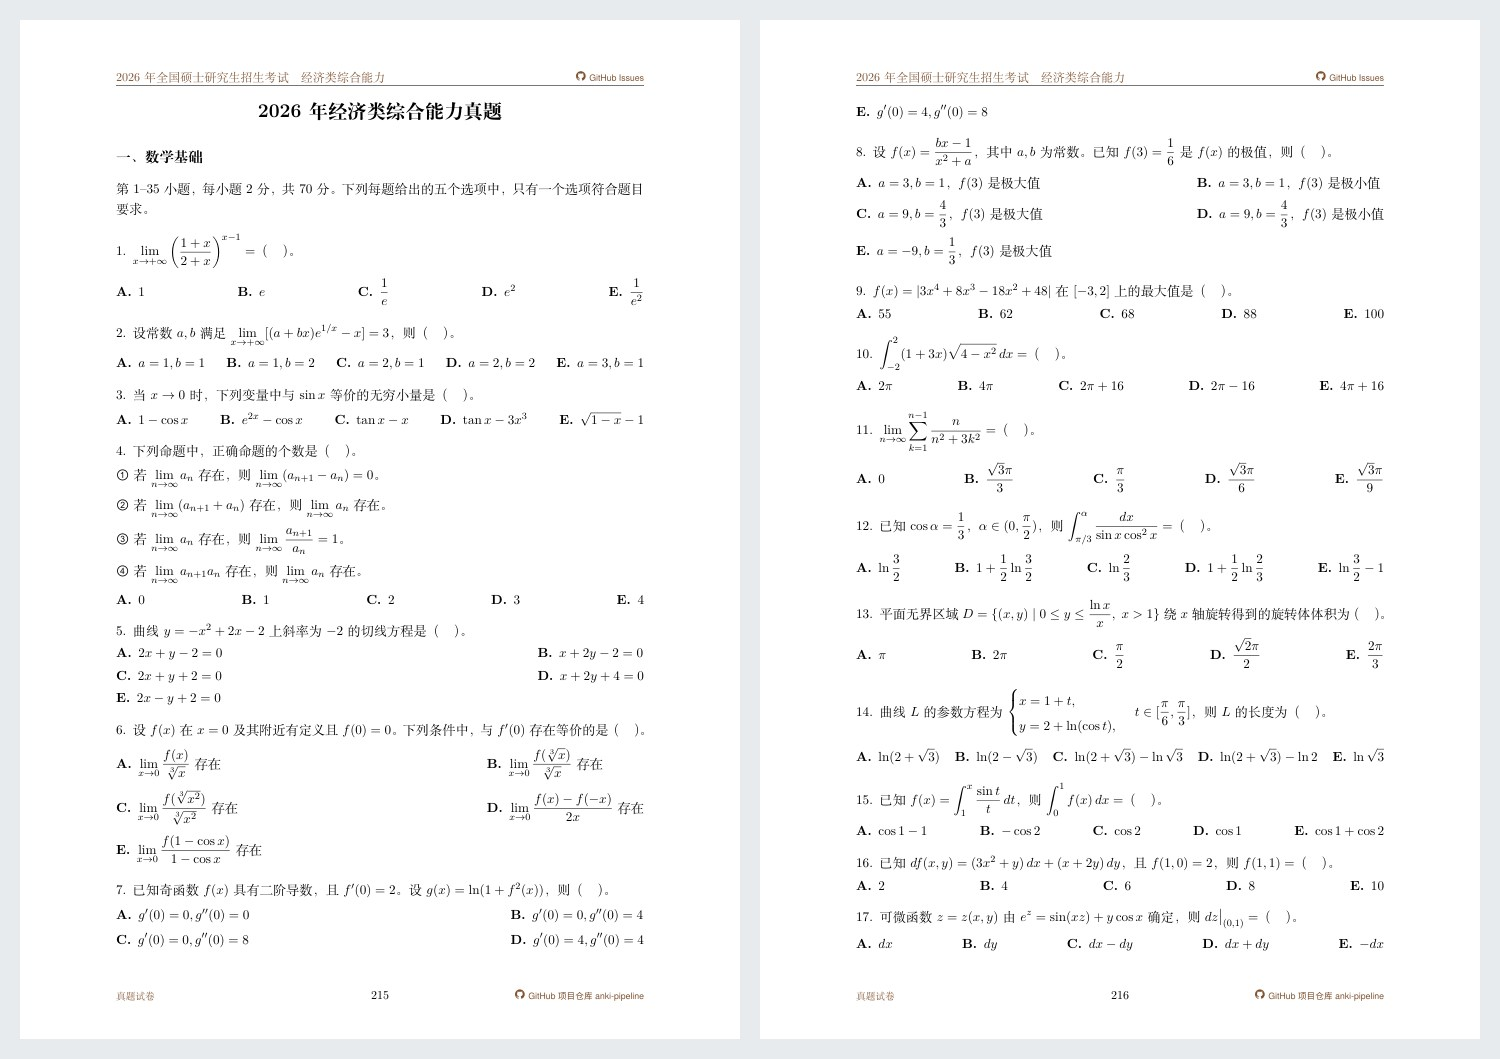
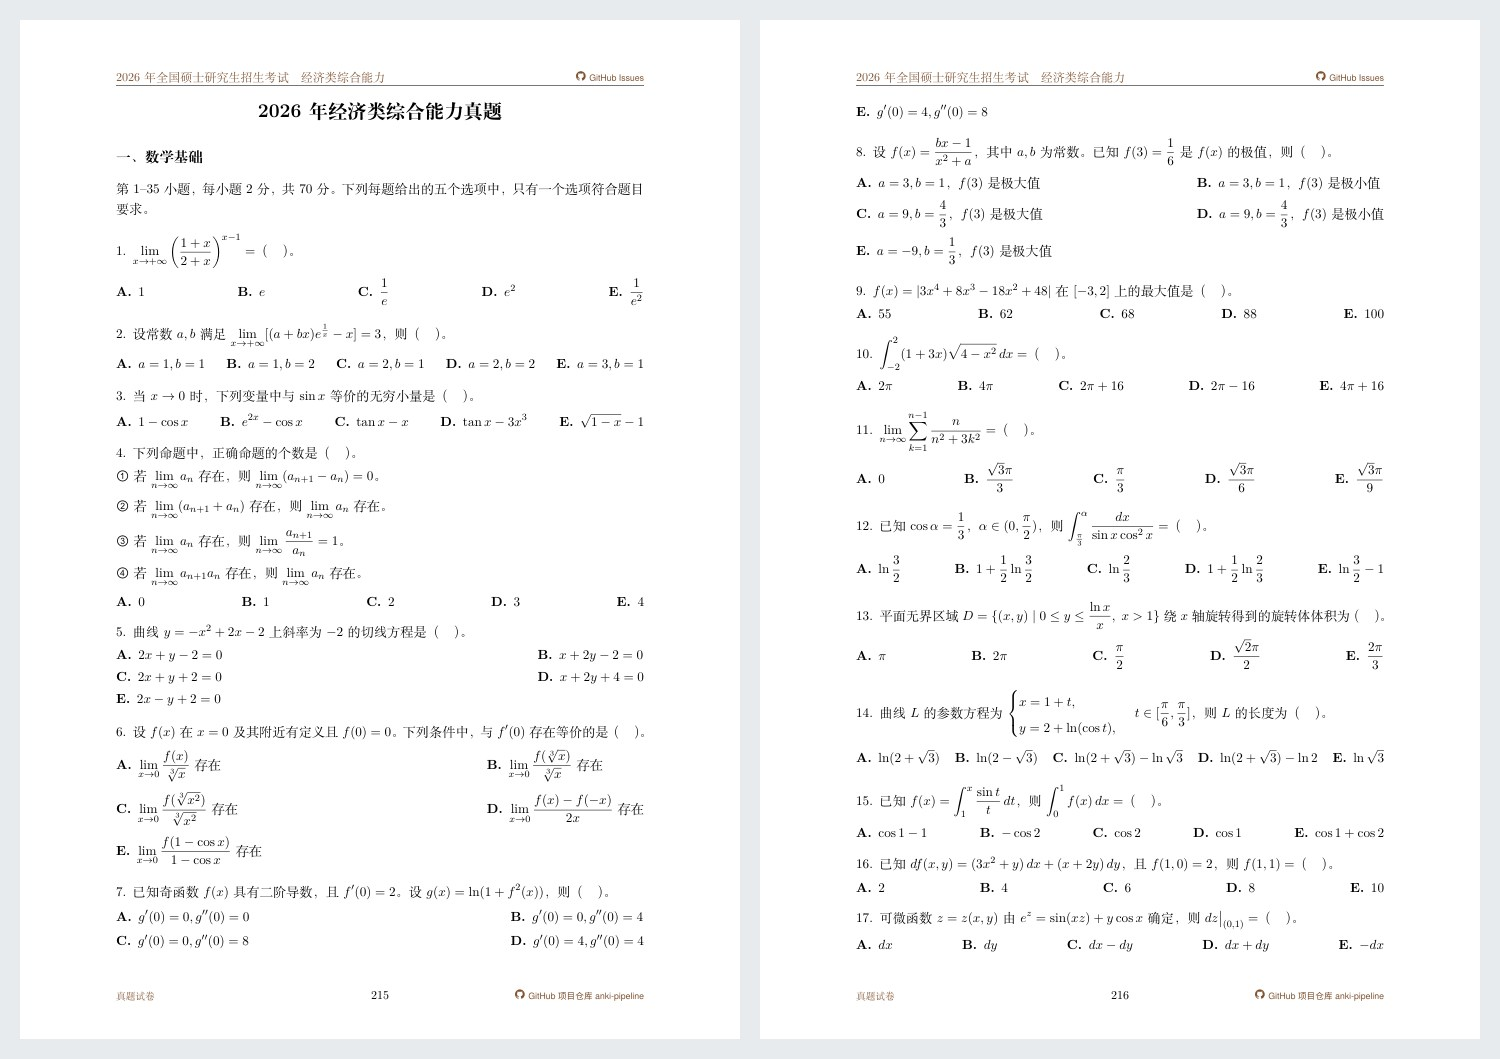
Refresh 199 and 396 previews after stacking fractions

diff --git a/README.md b/README.md
@@ -37,7 +37,7 @@ Anki Pipeline 整理考研数学历年真题、考研政治历年真题、考研
 | 考研数学历年真题（数学一／二／三：1987—2026） | [数一](https://github.com/CHNragdoll/anki-pipeline/releases/download/math-exams/Math1-Past-Exams-20261108.apkg) · [数二](https://github.com/CHNragdoll/anki-pipeline/releases/download/math-exams/Math2-Past-Exams-20261108.apkg) · [数三](https://github.com/CHNragdoll/anki-pipeline/releases/download/math-exams/Math3-Past-Exams-20261108.apkg) | 1,104 / 873 / 1,093 张 | 附 2027 大纲；[12 版 PDF](#math-downloads) | 63.4 / 52.0 / 61.2 MB | [数学固定发行页](https://github.com/CHNragdoll/anki-pipeline/releases/tag/math-exams) · [核验记录](docs/RELEASE_MATH_20261108.md) | [![数学累计下载](https://raw.githubusercontent.com/CHNragdoll/anki-pipeline/project-metrics/math-exams-downloads.svg)](https://github.com/CHNragdoll/anki-pipeline/releases/tag/math-exams) |
 | 考研408历年真题（2009—2026） | [408 完整版 · 847 张卡](https://github.com/CHNragdoll/anki-pipeline/releases/download/cs408-exams/CS408-Past-Exams-Full-Guide-20261109.apkg) | 847 / 37 | 846 道试题及来源答案 | 63.4 MB | [408 固定发行页](https://github.com/CHNragdoll/anki-pipeline/releases/tag/cs408-exams) · [发布核验](docs/RELEASE_CS408.md) | [![本发行页累计下载](https://raw.githubusercontent.com/CHNragdoll/anki-pipeline/project-metrics/cs408-exams-downloads.svg)](https://github.com/CHNragdoll/anki-pipeline/releases/tag/cs408-exams) |
 | 考研政治历年真题（2003—2026） | [政治完整包 · 909 张卡](https://github.com/CHNragdoll/anki-pipeline/releases/download/politics-exams/Politics-Past-Exams-2003-2026.apkg) | 909 / 76 | 908 道试题及来源答案 | 3.3 MB | [政治固定发行页](https://github.com/CHNragdoll/anki-pipeline/releases/tag/politics-exams) · [上一版核验](docs/RELEASE_POLITICS.md) | [![本发行页累计下载](https://raw.githubusercontent.com/CHNragdoll/anki-pipeline/project-metrics/politics-exams-downloads.svg)](https://github.com/CHNragdoll/anki-pipeline/releases/tag/politics-exams) |
-| 考研管综历年真题（2010—2026） | [管综 Anki · 970 张](https://github.com/CHNragdoll/anki-pipeline/releases/download/management199-exams/Management199-Past-Exams-20261113.apkg) | 970 / 69 | 969 道试题及解析 | 33.2 MB | [管综固定发行页](https://github.com/CHNragdoll/anki-pipeline/releases/tag/management199-exams) | [![Downloads](https://raw.githubusercontent.com/CHNragdoll/anki-pipeline/project-metrics/management199-exams-downloads.svg)](https://github.com/CHNragdoll/anki-pipeline/releases/tag/management199-exams) |
+| 考研管综历年真题（2010—2026） | [管综 Anki · 970 张](https://github.com/CHNragdoll/anki-pipeline/releases/download/management199-exams/Management199-Past-Exams-20261113.apkg) | 970 / 69 | 969 道试题及解析 | 33.1 MB | [管综固定发行页](https://github.com/CHNragdoll/anki-pipeline/releases/tag/management199-exams) | [![Downloads](https://raw.githubusercontent.com/CHNragdoll/anki-pipeline/project-metrics/management199-exams-downloads.svg)](https://github.com/CHNragdoll/anki-pipeline/releases/tag/management199-exams) |
 | 考研经综历年真题（2011—2026） | [经综 Anki · 759 张](https://github.com/CHNragdoll/anki-pipeline/releases/download/economics396-exams/Economics396-Past-Exams-20261113.apkg) | 759 / 49 | 758 道试题及解析 | 21.6 MB | [经综固定发行页](https://github.com/CHNragdoll/anki-pipeline/releases/tag/economics396-exams) | [![Downloads](https://raw.githubusercontent.com/CHNragdoll/anki-pipeline/project-metrics/economics396-exams-downloads.svg)](https://github.com/CHNragdoll/anki-pipeline/releases/tag/economics396-exams) |
 | 2027考研英语红宝书（必考词+基础词+超纲词）真题例句版 | [2027 完整版 · 统一修复版](https://github.com/CHNragdoll/anki-pipeline/releases/download/redbook-2027.10.06/2027-RedBook-Full-Unified-Inline-Examples-20261024.apkg) | 6,532 / 82 | 全部内嵌 | 287.2 MB | [2027 固定发行页](https://github.com/CHNragdoll/anki-pipeline/releases/tag/redbook-2027.10.06) · [本次核验](docs/RELEASE_REDBOOK_20261024.md) | [![本发行页累计下载](https://raw.githubusercontent.com/CHNragdoll/anki-pipeline/project-metrics/redbook-2027.10.06-downloads.svg)](https://github.com/CHNragdoll/anki-pipeline/releases/tag/redbook-2027.10.06) |
 | 2026考研英语红宝书（必考词+基础词+超纲词）真题例句版 | [2026 完整版 · 统一修复版](https://github.com/CHNragdoll/anki-pipeline/releases/download/redbook-2026.10.06/2026-RedBook-Full-Unified-Inline-Examples-20261024.apkg) | 6,682 / 83 | 全部内嵌 | 300.6 MB | [2026 固定发行页](https://github.com/CHNragdoll/anki-pipeline/releases/tag/redbook-2026.10.06) · [本次核验](docs/RELEASE_REDBOOK_20261024.md) | [![本发行页累计下载](https://raw.githubusercontent.com/CHNragdoll/anki-pipeline/project-metrics/redbook-2026.10.06-downloads.svg)](https://github.com/CHNragdoll/anki-pipeline/releases/tag/redbook-2026.10.06) |
@@ -60,8 +60,8 @@ Anki Pipeline 整理考研数学历年真题、考研政治历年真题、考研
 | 英语一 · 201 | [489 页（带答题卡）](https://github.com/CHNragdoll/anki-pipeline/releases/download/english-exams/all-english1-questions.pdf)<br/>[![Downloads](https://raw.githubusercontent.com/CHNragdoll/anki-pipeline/project-metrics/all-english1-questions-downloads.svg)](https://github.com/CHNragdoll/anki-pipeline/releases/download/english-exams/all-english1-questions.pdf) | [37 页](https://github.com/CHNragdoll/anki-pipeline/releases/download/english-exams/all-english1-answers.pdf)<br/>[![Downloads](https://raw.githubusercontent.com/CHNragdoll/anki-pipeline/project-metrics/all-english1-answers-downloads.svg)](https://github.com/CHNragdoll/anki-pipeline/releases/download/english-exams/all-english1-answers.pdf) | / | / | / |
 | 英语二 · 204 | [488 页（带答题卡）](https://github.com/CHNragdoll/anki-pipeline/releases/download/english-exams/all-english2-questions.pdf)<br/>[![Downloads](https://raw.githubusercontent.com/CHNragdoll/anki-pipeline/project-metrics/all-english2-questions-downloads.svg)](https://github.com/CHNragdoll/anki-pipeline/releases/download/english-exams/all-english2-questions.pdf) | [36 页](https://github.com/CHNragdoll/anki-pipeline/releases/download/english-exams/all-english2-answers.pdf)<br/>[![Downloads](https://raw.githubusercontent.com/CHNragdoll/anki-pipeline/project-metrics/all-english2-answers-downloads.svg)](https://github.com/CHNragdoll/anki-pipeline/releases/download/english-exams/all-english2-answers.pdf) | / | / | / |
 | 计算机学科专业基础 · 408 | [204 页](https://github.com/CHNragdoll/anki-pipeline/releases/download/cs408-exams/all-cs408-questions.pdf)<br/>[![Downloads](https://raw.githubusercontent.com/CHNragdoll/anki-pipeline/project-metrics/all-cs408-questions-downloads.svg)](https://github.com/CHNragdoll/anki-pipeline/releases/download/cs408-exams/all-cs408-questions.pdf) | [52 页](https://github.com/CHNragdoll/anki-pipeline/releases/download/cs408-exams/all-cs408-answers.pdf)<br/>[![Downloads](https://raw.githubusercontent.com/CHNragdoll/anki-pipeline/project-metrics/all-cs408-answers-downloads.svg)](https://github.com/CHNragdoll/anki-pipeline/releases/download/cs408-exams/all-cs408-answers.pdf) | [244 页](https://github.com/CHNragdoll/anki-pipeline/releases/download/cs408-exams/all-cs408-answer-details.pdf)<br/>[![Downloads](https://raw.githubusercontent.com/CHNragdoll/anki-pipeline/project-metrics/all-cs408-answer-details-downloads.svg)](https://github.com/CHNragdoll/anki-pipeline/releases/download/cs408-exams/all-cs408-answer-details.pdf) | [373 页](https://github.com/CHNragdoll/anki-pipeline/releases/download/cs408-exams/all-cs408-solutions.pdf)<br/>[![Downloads](https://raw.githubusercontent.com/CHNragdoll/anki-pipeline/project-metrics/all-cs408-solutions-downloads.svg)](https://github.com/CHNragdoll/anki-pipeline/releases/download/cs408-exams/all-cs408-solutions.pdf) | [847 张卡](https://github.com/CHNragdoll/anki-pipeline/releases/download/cs408-exams/CS408-Past-Exams-Full-Guide-20261109.apkg)<br/>[![Downloads](https://raw.githubusercontent.com/CHNragdoll/anki-pipeline/project-metrics/CS408-Past-Exams-Full-Guide-20261109-downloads.svg)](https://github.com/CHNragdoll/anki-pipeline/releases/download/cs408-exams/CS408-Past-Exams-Full-Guide-20261109.apkg) |
-| 管理类综合能力 · 199 | [291 页](https://github.com/CHNragdoll/anki-pipeline/releases/download/management199-exams/all-management199-questions.pdf)<br/>[![Downloads](https://raw.githubusercontent.com/CHNragdoll/anki-pipeline/project-metrics/all-management199-questions-downloads.svg)](https://github.com/CHNragdoll/anki-pipeline/releases/download/management199-exams/all-management199-questions.pdf) | [24 页](https://github.com/CHNragdoll/anki-pipeline/releases/download/management199-exams/all-management199-answers.pdf)<br/>[![Downloads](https://raw.githubusercontent.com/CHNragdoll/anki-pipeline/project-metrics/all-management199-answers-downloads.svg)](https://github.com/CHNragdoll/anki-pipeline/releases/download/management199-exams/all-management199-answers.pdf) | [186 页](https://github.com/CHNragdoll/anki-pipeline/releases/download/management199-exams/all-management199-answer-details.pdf)<br/>[![Downloads](https://raw.githubusercontent.com/CHNragdoll/anki-pipeline/project-metrics/all-management199-answer-details-downloads.svg)](https://github.com/CHNragdoll/anki-pipeline/releases/download/management199-exams/all-management199-answer-details.pdf) | [403 页](https://github.com/CHNragdoll/anki-pipeline/releases/download/management199-exams/all-management199-solutions.pdf)<br/>[![Downloads](https://raw.githubusercontent.com/CHNragdoll/anki-pipeline/project-metrics/all-management199-solutions-downloads.svg)](https://github.com/CHNragdoll/anki-pipeline/releases/download/management199-exams/all-management199-solutions.pdf) | [970 张 · 33.2 MB](https://github.com/CHNragdoll/anki-pipeline/releases/download/management199-exams/Management199-Past-Exams-20261113.apkg)<br/>[![Downloads](https://raw.githubusercontent.com/CHNragdoll/anki-pipeline/project-metrics/Management199-Past-Exams-20261113-downloads.svg)](https://github.com/CHNragdoll/anki-pipeline/releases/download/management199-exams/Management199-Past-Exams-20261113.apkg) |
-| 经济类综合能力 · 396 | [232 页](https://github.com/CHNragdoll/anki-pipeline/releases/download/economics396-exams/all-economics396-questions.pdf)<br/>[![Downloads](https://raw.githubusercontent.com/CHNragdoll/anki-pipeline/project-metrics/all-economics396-questions-downloads.svg)](https://github.com/CHNragdoll/anki-pipeline/releases/download/economics396-exams/all-economics396-questions.pdf) | [21 页](https://github.com/CHNragdoll/anki-pipeline/releases/download/economics396-exams/all-economics396-answers.pdf)<br/>[![Downloads](https://raw.githubusercontent.com/CHNragdoll/anki-pipeline/project-metrics/all-economics396-answers-downloads.svg)](https://github.com/CHNragdoll/anki-pipeline/releases/download/economics396-exams/all-economics396-answers.pdf) | [223 页](https://github.com/CHNragdoll/anki-pipeline/releases/download/economics396-exams/all-economics396-answer-details.pdf)<br/>[![Downloads](https://raw.githubusercontent.com/CHNragdoll/anki-pipeline/project-metrics/all-economics396-answer-details-downloads.svg)](https://github.com/CHNragdoll/anki-pipeline/releases/download/economics396-exams/all-economics396-answer-details.pdf) | [381 页](https://github.com/CHNragdoll/anki-pipeline/releases/download/economics396-exams/all-economics396-solutions.pdf)<br/>[![Downloads](https://raw.githubusercontent.com/CHNragdoll/anki-pipeline/project-metrics/all-economics396-solutions-downloads.svg)](https://github.com/CHNragdoll/anki-pipeline/releases/download/economics396-exams/all-economics396-solutions.pdf) | [759 张 · 21.6 MB](https://github.com/CHNragdoll/anki-pipeline/releases/download/economics396-exams/Economics396-Past-Exams-20261113.apkg)<br/>[![Downloads](https://raw.githubusercontent.com/CHNragdoll/anki-pipeline/project-metrics/Economics396-Past-Exams-20261113-downloads.svg)](https://github.com/CHNragdoll/anki-pipeline/releases/download/economics396-exams/Economics396-Past-Exams-20261113.apkg) |
+| 管理类综合能力 · 199 | [291 页](https://github.com/CHNragdoll/anki-pipeline/releases/download/management199-exams/all-management199-questions.pdf)<br/>[![Downloads](https://raw.githubusercontent.com/CHNragdoll/anki-pipeline/project-metrics/all-management199-questions-downloads.svg)](https://github.com/CHNragdoll/anki-pipeline/releases/download/management199-exams/all-management199-questions.pdf) | [24 页](https://github.com/CHNragdoll/anki-pipeline/releases/download/management199-exams/all-management199-answers.pdf)<br/>[![Downloads](https://raw.githubusercontent.com/CHNragdoll/anki-pipeline/project-metrics/all-management199-answers-downloads.svg)](https://github.com/CHNragdoll/anki-pipeline/releases/download/management199-exams/all-management199-answers.pdf) | [187 页](https://github.com/CHNragdoll/anki-pipeline/releases/download/management199-exams/all-management199-answer-details.pdf)<br/>[![Downloads](https://raw.githubusercontent.com/CHNragdoll/anki-pipeline/project-metrics/all-management199-answer-details-downloads.svg)](https://github.com/CHNragdoll/anki-pipeline/releases/download/management199-exams/all-management199-answer-details.pdf) | [404 页](https://github.com/CHNragdoll/anki-pipeline/releases/download/management199-exams/all-management199-solutions.pdf)<br/>[![Downloads](https://raw.githubusercontent.com/CHNragdoll/anki-pipeline/project-metrics/all-management199-solutions-downloads.svg)](https://github.com/CHNragdoll/anki-pipeline/releases/download/management199-exams/all-management199-solutions.pdf) | [970 张 · 33.1 MB](https://github.com/CHNragdoll/anki-pipeline/releases/download/management199-exams/Management199-Past-Exams-20261113.apkg)<br/>[![Downloads](https://raw.githubusercontent.com/CHNragdoll/anki-pipeline/project-metrics/Management199-Past-Exams-20261113-downloads.svg)](https://github.com/CHNragdoll/anki-pipeline/releases/download/management199-exams/Management199-Past-Exams-20261113.apkg) |
+| 经济类综合能力 · 396 | [232 页](https://github.com/CHNragdoll/anki-pipeline/releases/download/economics396-exams/all-economics396-questions.pdf)<br/>[![Downloads](https://raw.githubusercontent.com/CHNragdoll/anki-pipeline/project-metrics/all-economics396-questions-downloads.svg)](https://github.com/CHNragdoll/anki-pipeline/releases/download/economics396-exams/all-economics396-questions.pdf) | [21 页](https://github.com/CHNragdoll/anki-pipeline/releases/download/economics396-exams/all-economics396-answers.pdf)<br/>[![Downloads](https://raw.githubusercontent.com/CHNragdoll/anki-pipeline/project-metrics/all-economics396-answers-downloads.svg)](https://github.com/CHNragdoll/anki-pipeline/releases/download/economics396-exams/all-economics396-answers.pdf) | [223 页](https://github.com/CHNragdoll/anki-pipeline/releases/download/economics396-exams/all-economics396-answer-details.pdf)<br/>[![Downloads](https://raw.githubusercontent.com/CHNragdoll/anki-pipeline/project-metrics/all-economics396-answer-details-downloads.svg)](https://github.com/CHNragdoll/anki-pipeline/releases/download/economics396-exams/all-economics396-answer-details.pdf) | [383 页](https://github.com/CHNragdoll/anki-pipeline/releases/download/economics396-exams/all-economics396-solutions.pdf)<br/>[![Downloads](https://raw.githubusercontent.com/CHNragdoll/anki-pipeline/project-metrics/all-economics396-solutions-downloads.svg)](https://github.com/CHNragdoll/anki-pipeline/releases/download/economics396-exams/all-economics396-solutions.pdf) | [759 张 · 21.6 MB](https://github.com/CHNragdoll/anki-pipeline/releases/download/economics396-exams/Economics396-Past-Exams-20261113.apkg)<br/>[![Downloads](https://raw.githubusercontent.com/CHNragdoll/anki-pipeline/project-metrics/Economics396-Past-Exams-20261113-downloads.svg)](https://github.com/CHNragdoll/anki-pipeline/releases/download/economics396-exams/Economics396-Past-Exams-20261113.apkg) |
 
 #### 考研初试答题卡 PDF 下载
 
